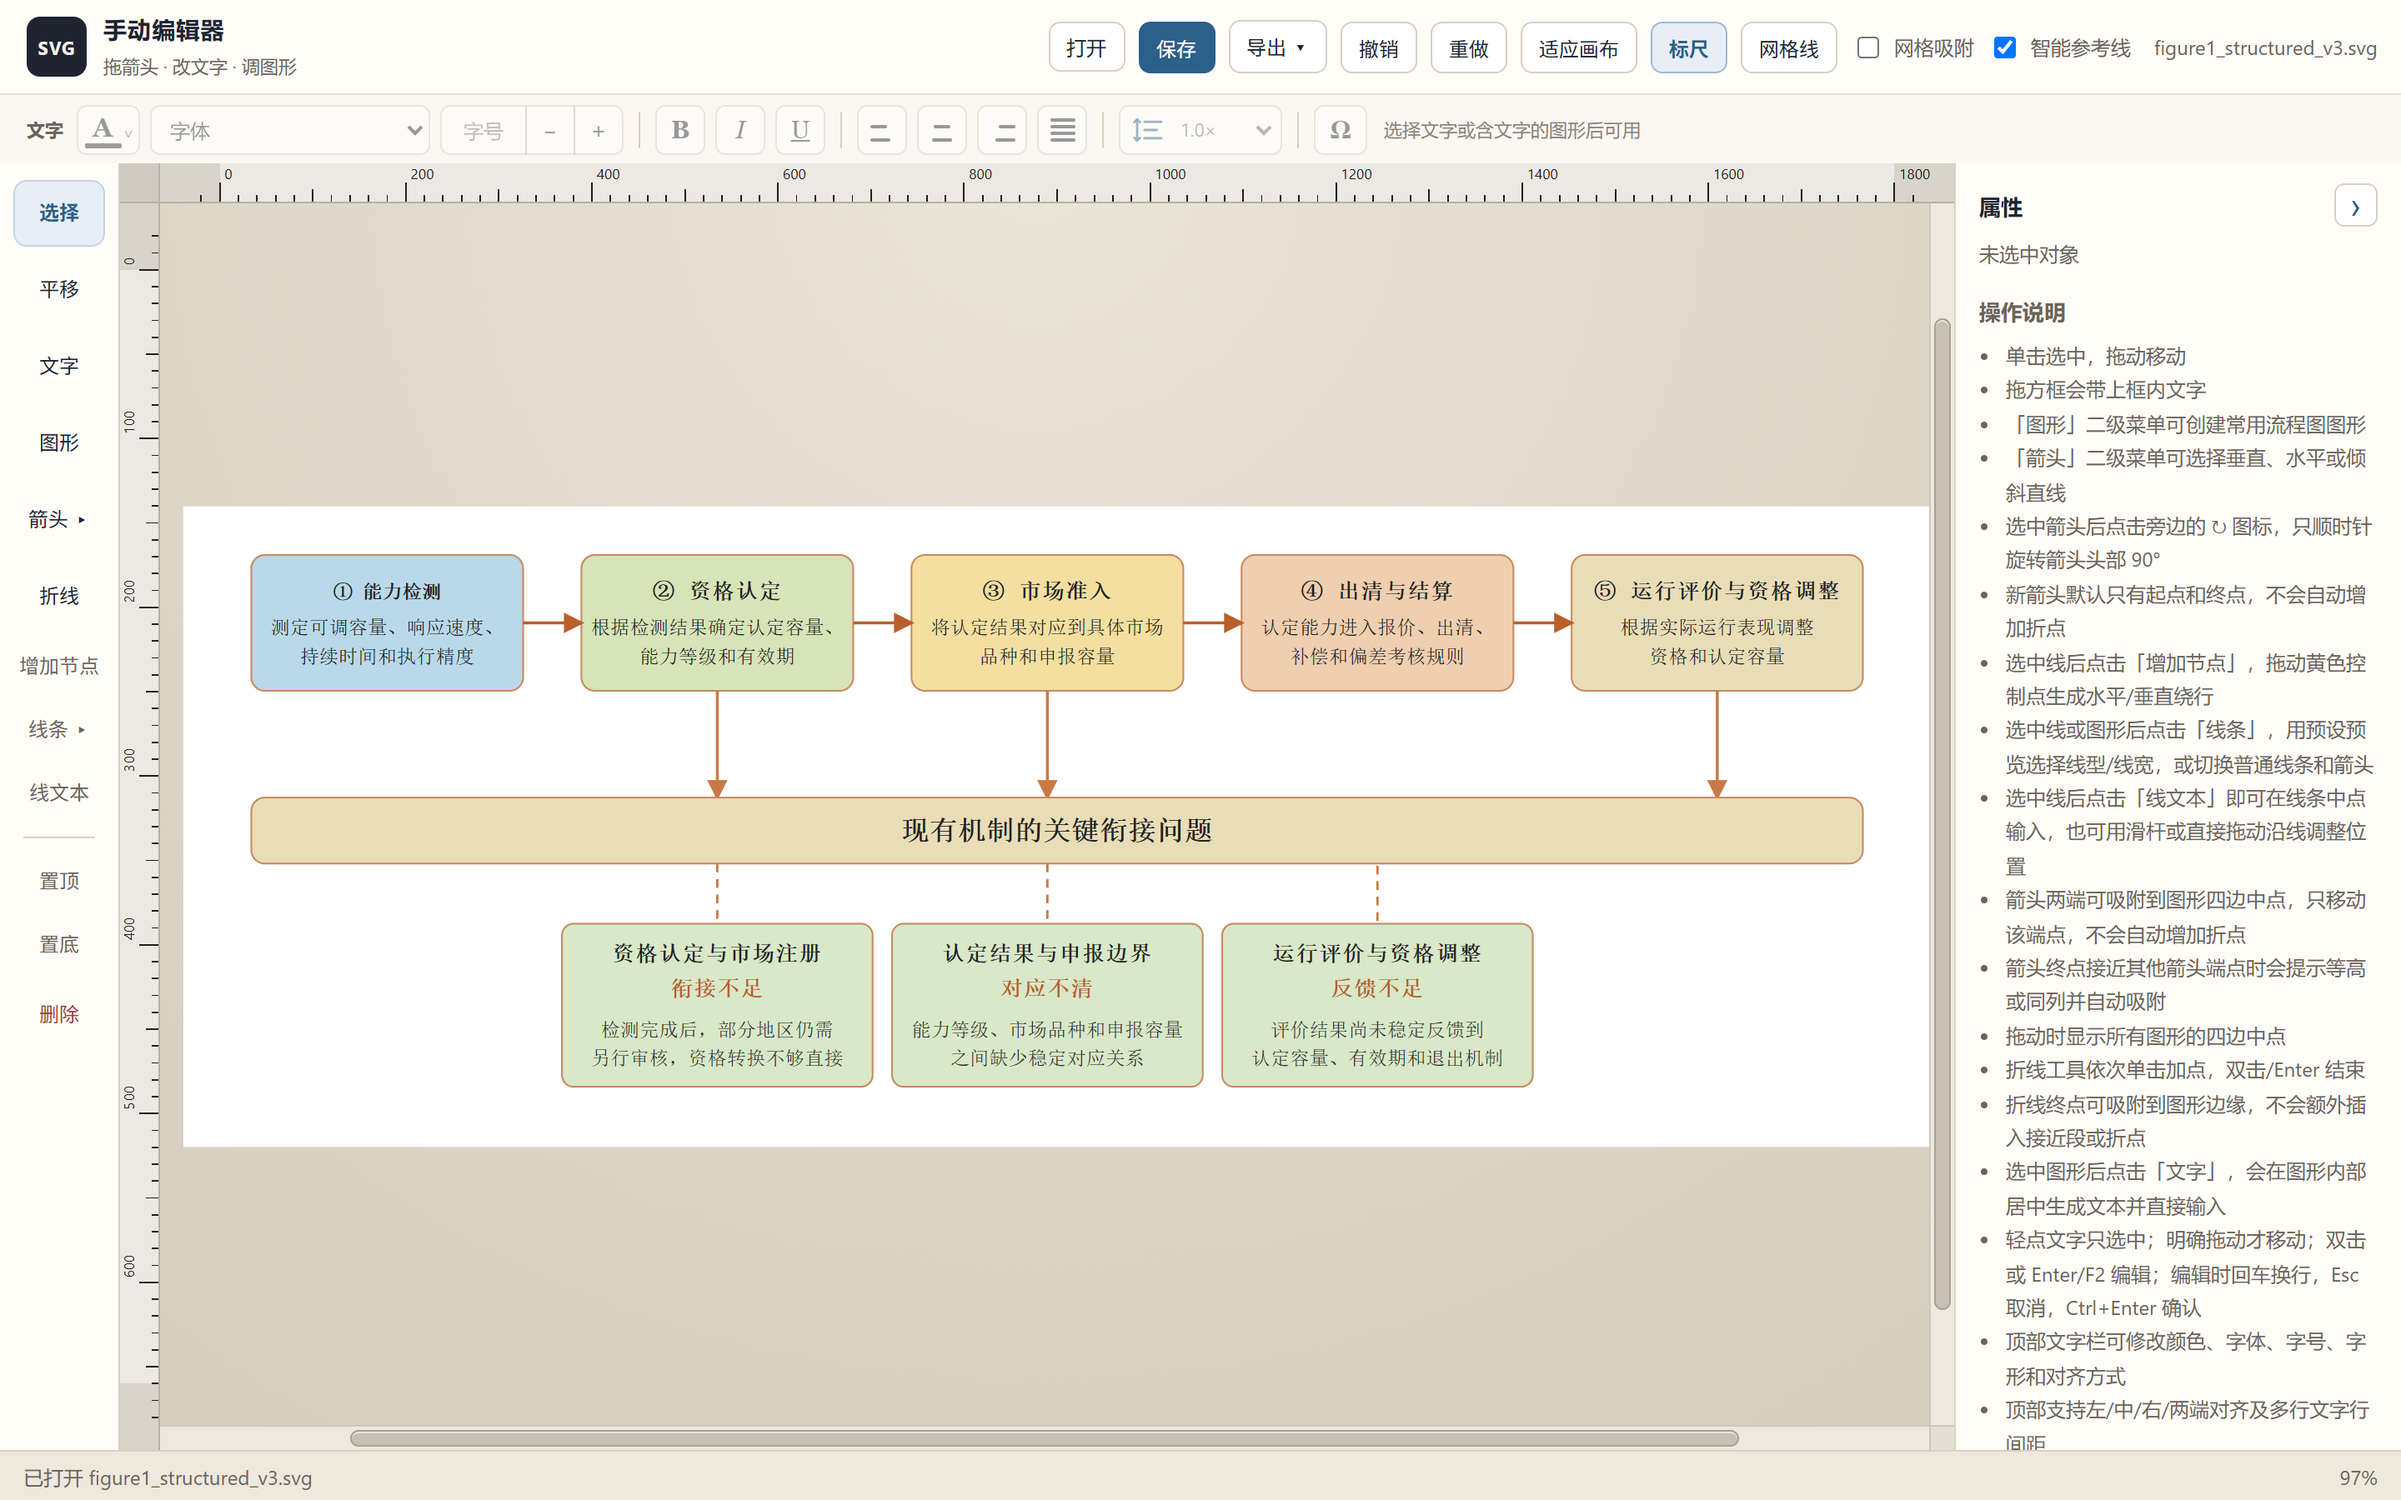
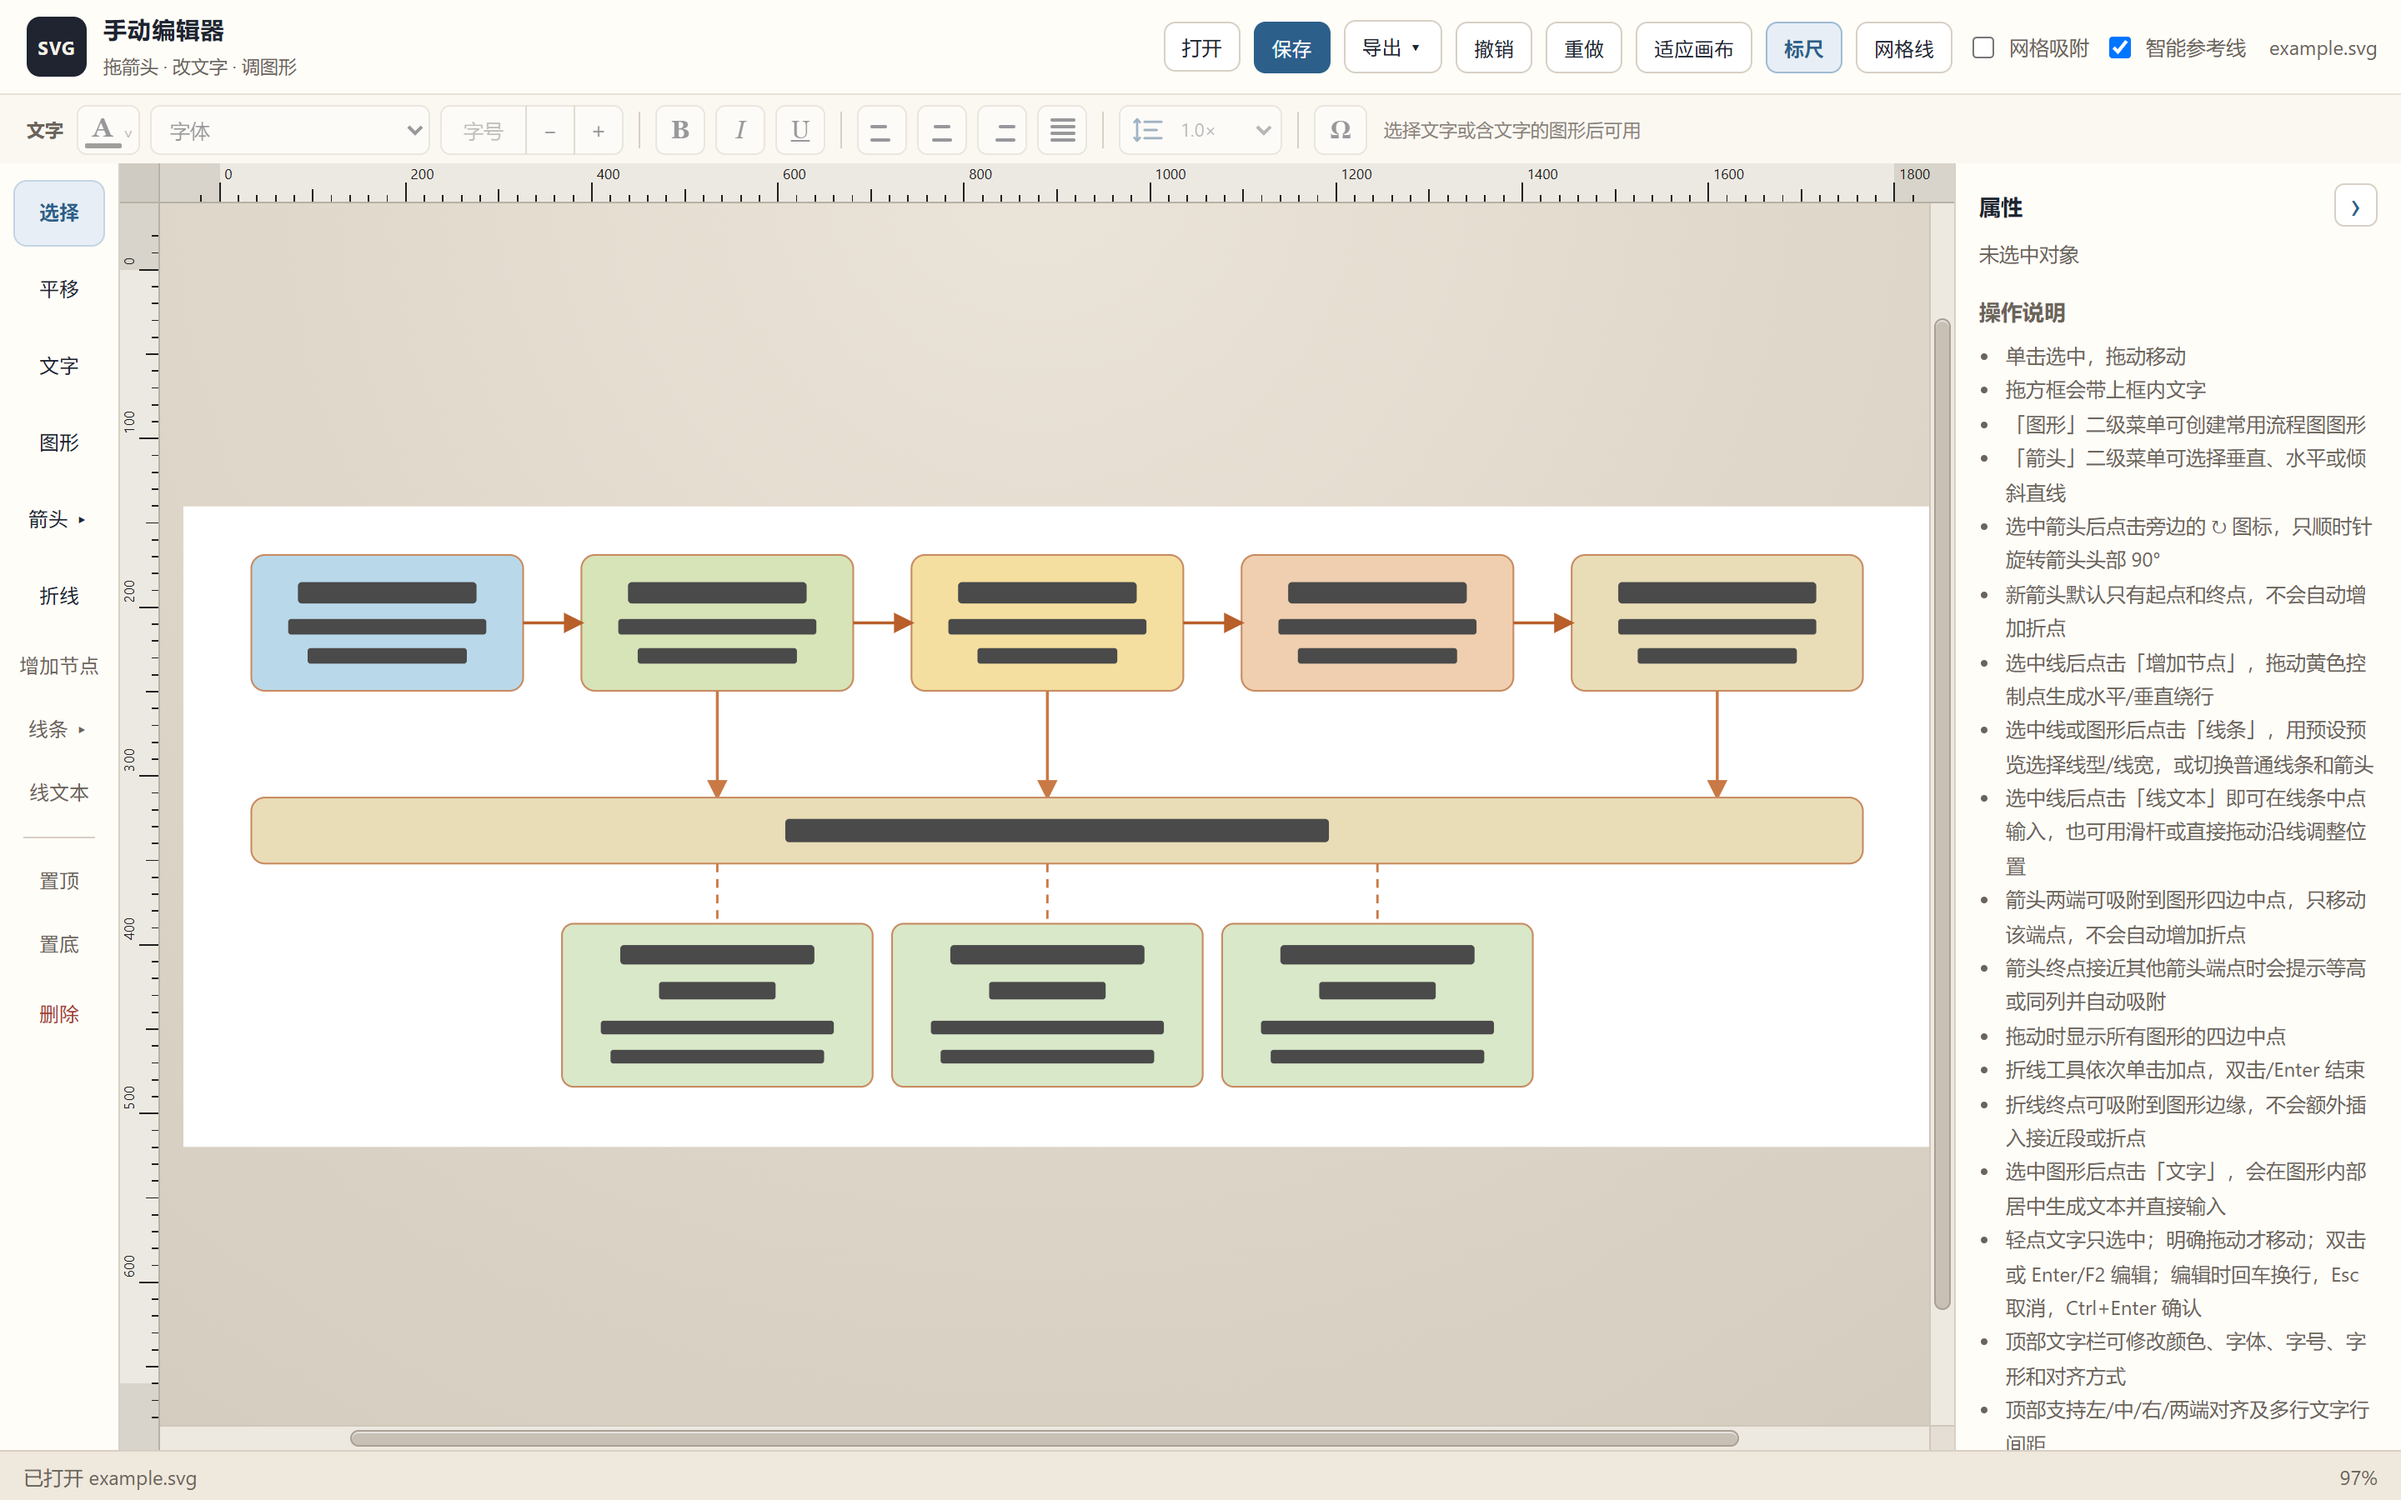
Redact research-figure text in the README screenshot.
Public GitHub and Marketplace images now show the editor UI with diagram labels covered, so the original wording is not readable.

diff --git a/README.md b/README.md
@@ -47,10 +47,10 @@ Agent 负责「从零到有、从有到多种方案」，你负责「像改 PPT 
 
 ## 安装 VSIX
 
-从 [Releases](https://github.com/boringcat520/svg-manual-editor/releases) 下载 `svg-manual-editor-0.1.11.vsix`，然后任选一种方式安装：
+从 [Releases](https://github.com/boringcat520/svg-manual-editor/releases) 下载 `svg-manual-editor-0.1.12.vsix`，然后任选一种方式安装：
 
 - **Cursor / VS Code：** 扩展面板 → `⋯` → **Install from VSIX…**，选中下载的 `.vsix`
-- **命令行：** `code --install-extension svg-manual-editor-0.1.11.vsix`（Cursor 可用 `cursor --install-extension`）
+- **命令行：** `code --install-extension svg-manual-editor-0.1.12.vsix`（Cursor 可用 `cursor --install-extension`）
 
 安装后重启编辑器，在资源管理器里对 `.svg` 右键 → **用 SVG 手动编辑器打开**。
 
